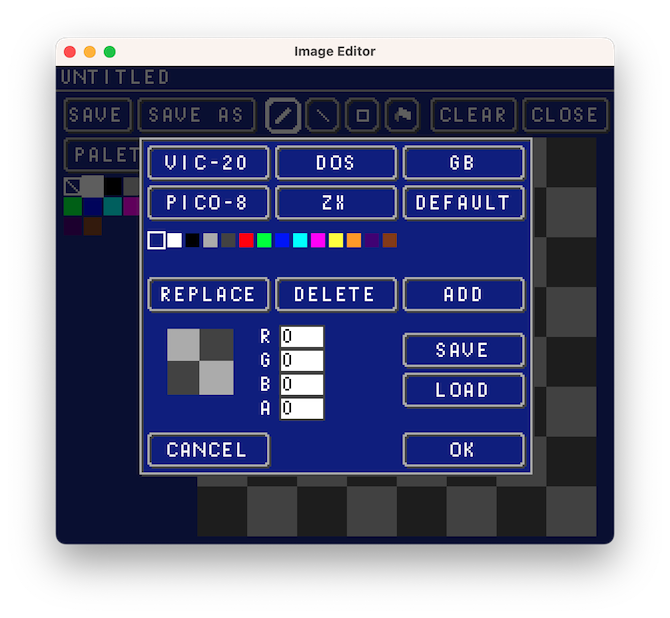
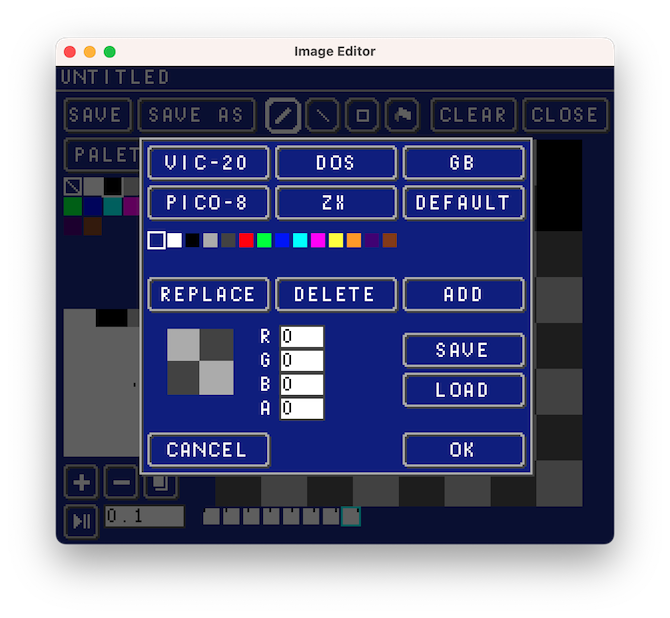
Update readme

Changed region(s): [[0.0896, 0.2152, 0.8955, 0.8916], [0.1194, 0.2767, 0.1791, 0.3382], [0.1791, 0.2767, 0.209, 0.3074]]

diff --git a/README.md b/README.md
@@ -1,11 +1,6 @@
 # ICI Image Editor
 
-Used to edit ICI images (`IndexedImage`) from [ici-files](https://github.com/emmabritton/ici-files)
-
-## Screenshots
-
-![Editor](https://github.com/emmabritton/ici-image-editor/raw/main/.github/screenshots/editor.png)
-![Edit Palette](https://github.com/emmabritton/ici-image-editor/raw/main/.github/screenshots/palette.png)
+Used to edit ICI images (`IndexedImage` and `AnimatedIndexedImage`) from [ici-files](https://github.com/emmabritton/ici-files)
 
 ## Controls
 
@@ -14,9 +9,17 @@ Redo - Shift+Ctrl+Z, Shift+Cmd+Z, Ctrl+Y, Cmd+Y
 
 Save single frame - Holding Shift when saving
 
+## Screenshots
+
+![Editor](https://github.com/emmabritton/ici-image-editor/raw/main/.github/screenshots/image.png)
+![Editor with timeline](https://github.com/emmabritton/ici-image-editor/raw/main/.github/screenshots/animated.png)
+![New file](https://github.com/emmabritton/ici-image-editor/raw/main/.github/screenshots/new_image.png)
+![Palette editor](https://github.com/emmabritton/ici-image-editor/raw/main/.github/screenshots/palette.png)
+
 ## TODO
 - Support images bigger than 64x64
 - New palette system
 - Confirmation before clear/close
 - Animation
 - Canvas scrolling
+- Support play type
